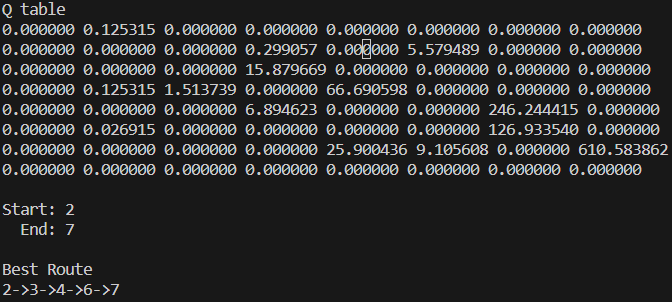
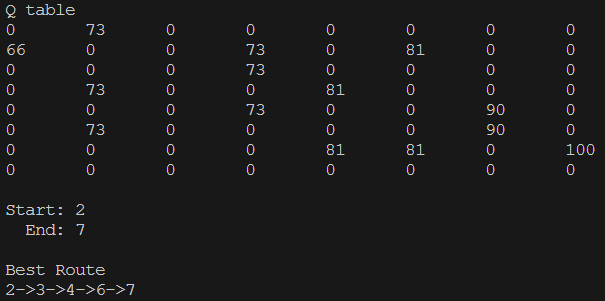
算法

diff --git a/Q学习/q_learn.cpp b/Q学习/q_learn.cpp
@@ -1,27 +1,30 @@
 #include <stdio.h>
+#include <time.h>
 #include "q_star_utils.cpp"
 
 
 // Q学习
-void q_learn(int** adj_matrix, float** returns_matrix, float** Q, int start_states, int end_states, int rows, int cols, int epochs){
+void q_learn(int** adj_matrix, float** returns_matrix, float** Q, int end_states, int rows, int epochs, int max_step){
 
     // 选择随机动作的概率
-    float p = 0.5;
+    float p = 0.3;
 
-    float y = 0.1;
-    float w = 0.9;
+    float y = 0.9;
+
 
     // 迭代
     for(int i=0;i<epochs;i++){
-        int state = start_states;
-        while(state != end_states){
+        int state = rand_int(0, rows);
+        int step=0;
+        int exist_Q_[rows];
+        while(state != end_states and step < max_step){
             int select_a;
             // 选择动作
             float e = rand_float(0, 1);
             array_int available_actions;
-            int available_actions_[cols];
+            int available_actions_[rows];
             available_actions.array=available_actions_;
-            for(int a=0;a<cols;a++){
+            for(int a=0;a<rows;a++){
                 if(adj_matrix[state][a] == 1){
                     array_int_append(&available_actions, a);
                 }
@@ -49,11 +52,11 @@ void q_learn(int** adj_matrix, float** returns_matrix, float** Q, int start_stat
             int next_s = select_a;
             float* next_s_Q = Q[next_s];
             float next_s_max_Q = next_s_Q[0];
-            for(int k=1;k<cols;k++){
+            for(int k=1;k<rows;k++){
                 float q = next_s_Q[k];
                 if(next_s_max_Q < q) next_s_max_Q=q;
             }
-            Q[state][select_a] = Q[state][select_a] + w * (this_s_ret + y * (next_s_max_Q - Q[state][select_a]));
+            Q[state][select_a] = this_s_ret + y * next_s_max_Q;
             // 进入下一个状态
             state = select_a;
         }
@@ -62,7 +65,6 @@ void q_learn(int** adj_matrix, float** returns_matrix, float** Q, int start_stat
 
 
 void run(){
-    
     // /*
     // map
     //     0---1---
@@ -106,9 +108,8 @@ void run(){
     */
     // 地图构建
     int rows = 8;
-    int cols = 8;
     // 邻接矩阵
-    int adj_matrix_[rows][cols] = {
+    int adj_matrix_[rows][rows] = {
         {0, 1, 0, 0, 0, 0, 0, 0},
         {1, 0, 0, 1, 0, 1, 0, 0},
         {0, 0, 0, 1, 0, 0, 0, 0},
@@ -119,7 +120,7 @@ void run(){
         {0, 0, 0, 0, 0, 0, 1, 0},
     };
     // 奖励矩阵
-    float returns_matrix_[rows][cols] = {
+    float returns_matrix_[rows][rows] = {
         {0, 0, 0, 0, 0, 0, 0, 0},
         {0, 0, 0, 0, 0, 0, 0, 0},
         {0, 0, 0, 0, 0, 0, 0, 0},
@@ -144,32 +145,27 @@ void run(){
     }
 
     // Q表
-    float Q_[rows][cols]={
-        {0, 0, 0, 0, 0, 0, 0, 0},
-        {0, 0, 0, 0, 0, 0, 0, 0},
-        {0, 0, 0, 0, 0, 0, 0, 0},
-        {0, 0, 0, 0, 0, 0, 0, 0},
-        {0, 0, 0, 0, 0, 0, 0, 0},
-        {0, 0, 0, 0, 0, 0, 0, 0},
-        {0, 0, 0, 0, 0, 0, 0, 0},
-        {0, 0, 0, 0, 0, 0, 0, 0},
-    };
+    float Q_[rows][rows];
     float* Q[rows];
     for(int ri=0;ri<rows;ri++){
         Q[ri] = Q_[ri];
+        for(int ci=0;ci<rows;ci++){
+            Q[ri][ci] = 0.;
+        }
     }
 
+    srand(time(NULL));
     // 算法执行
-    q_learn(adj_matrix, returns_matrix, Q, start_state, end_state, rows, cols, 10);
+    q_learn(adj_matrix, returns_matrix, Q, end_state, rows, 50, 5);
 
     // 打印Q表
     print_s("Q table");
-    print_float_matrix(Q, rows, cols);
+    print_float_matrix_0f(Q, rows, rows);
     print_n();
     // 打印路径
     printf("Start: %d\n  End: %d\n", start_state, end_state);
     print_n();
-    show_route(Q, start_state, end_state, rows, cols);
+    show_route(Q, start_state, end_state, rows, rows);
     print_n();
 }
 

diff --git a/Q学习/q_star_utils.cpp b/Q学习/q_star_utils.cpp
@@ -49,6 +49,15 @@ int array_int_get_by_index(array_int* array, int index){
     return array->array[index];
 }
 
+bool is_in_array_int(array_int* array, int value){
+    for(int i=0;i<array->tail_index+1;i++){
+        if(value == array->array[i]){
+            return true;
+        }
+    }
+    return false;
+}
+
 
 // 随机int
 int rand_int(int start, int end){
@@ -75,6 +84,16 @@ void print_float_matrix(float** arr, int rows, int cols){
 }
 
 // 打印矩阵
+void print_float_matrix_0f(float** arr, int rows, int cols){
+    for(int ri=0; ri<rows; ri++){
+        for(int ci=0; ci<cols; ci++){
+            printf("%.0f\t", arr[ri][ci]);
+        }
+        print_n();
+    }
+}
+
+// 打印矩阵
 void print_int_matrix(int** arr, int rows, int cols){
     for(int ri=0; ri<rows; ri++){
         for(int ci=0; ci<cols; ci++){
@@ -88,6 +107,16 @@ void print_int_matrix(int** arr, int rows, int cols){
 // 打印路径
 void show_route(float** Q, int start_state, int end_state, int rows, int cols){
     int state = start_state;
+
+    float max = Q[start_state][0];
+    for(int i=0;i<rows;i++){
+        if(max < Q[start_state][i]) max = Q[start_state][i];
+    }
+    if(max < 1e-5){
+        print_s("Path not found.");
+        return;
+    }
+
     print_s("Best Route");
     printf("%d", state);
     while(state != end_state){
@@ -102,6 +131,25 @@ void show_route(float** Q, int start_state, int end_state, int rows, int cols){
         }
         state = max_a;
         printf("->%d", state);
+    }
+}
+
+
+void matrix_normal(float** mat, int rows, int cols){
+    float min, max;
+    min = mat[0][0];
+    max = mat[0][0];
+    for(int ri=0;ri<rows;ri++){
+        for(int ci=0;ci<cols;ci++){
+            float val = mat[ri][ci];
+            if(val > max) max = val;
+            if(val < min) min = val;
+        }
+    }
+    for(int ri=0;ri<rows;ri++){
+        for(int ci=0;ci<cols;ci++){
+            mat[ri][ci] = (mat[ri][ci] - min) / (max - min);
+        }
     }
 }
 
